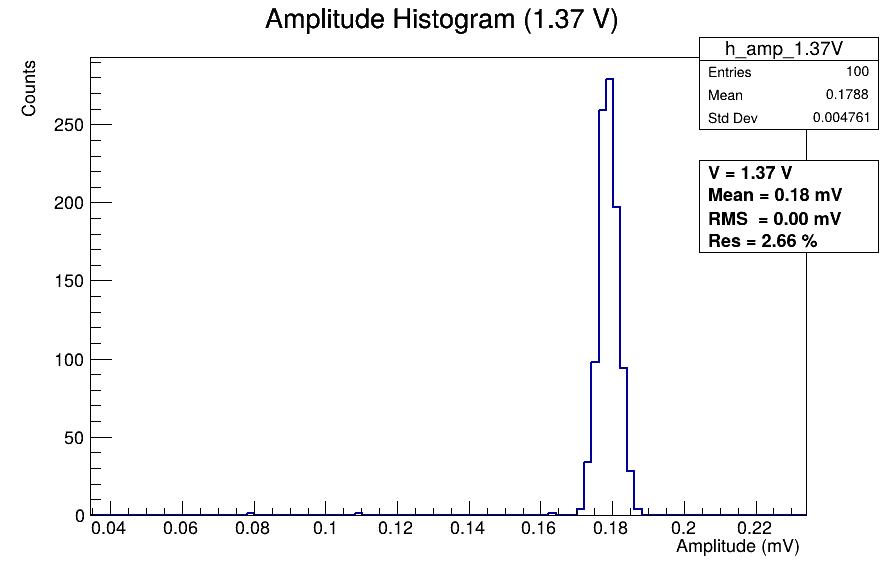
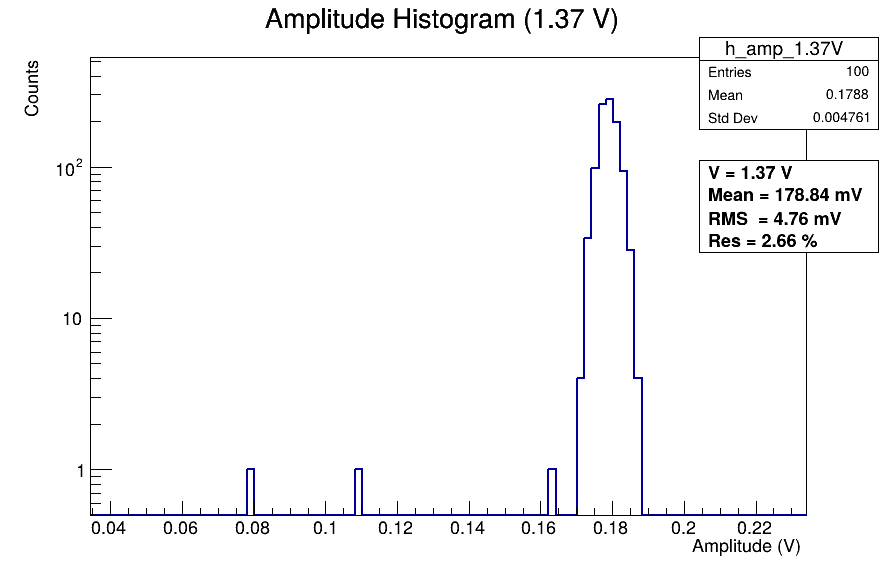
⚡ Improve the way the graphs are done (log y)

diff --git a/Test_LED_Analysis/plot_resolution_vs_voltage.py b/Test_LED_Analysis/plot_resolution_vs_voltage.py
@@ -7,15 +7,18 @@ import re
 # --------------------------------------------------
 # Paths
 # --------------------------------------------------
-BASE_DIR = "/mnt/d/Documents/PhD/EEEMCal_Analysis/Test_LED_Analysis/Res_area"
-DATA_DIR = os.path.join(BASE_DIR, "data")
-OUT_DIR  = os.path.join(BASE_DIR, "images", "areaHist")
+BASE_DIR = "/mnt/d/Documents/PhD/EEEMCal_Analysis/Test_LED_Analysis"
+
+AREA_DATA_DIR = os.path.join(BASE_DIR, "Res_area", "data")
+AMP_DATA_DIR  = os.path.join(BASE_DIR, "Res_amplitude", "data")
+
+OUT_DIR = os.path.join(BASE_DIR, "Res_area", "images", "areaHist")
 os.makedirs(OUT_DIR, exist_ok=True)
 
 ROOT.gROOT.SetBatch(True)
 
 # --------------------------------------------------
-# Helpers
+# Functions
 # --------------------------------------------------
 def read_binned_hist_csv(csv_path):
     """Reads CSV with columns: bin_center, counts (header allowed). Returns (x_centers, counts)."""
@@ -72,91 +75,156 @@ def parse_voltage(csv_file):
 # --------------------------------------------------
 # Scan files and compute resolution
 # --------------------------------------------------
-csv_files = sorted([f for f in os.listdir(DATA_DIR) if f.startswith("hist_area_") and f.endswith(".csv")])
-if not csv_files:
-    raise RuntimeError(f"No hist_area_*.csv files found in {DATA_DIR}")
+def compute_resolution_points(data_dir, file_prefix, x_unit_label):
+    """
+    Reads histograms in data_dir matching f"{file_prefix}_*.csv",
+    computes resolution = RMS/Mean (in %), and returns sorted arrays:
+    voltages, resolutions_pct, v_errors, res_errors_pct
+    """
+    
+    csv_files = sorted([f for f in os.listdir(data_dir) if f.startswith(file_prefix) and f.endswith(".csv")])
+    if not csv_files:
+        raise RuntimeError(f"No {file_prefix}*.csv files found in {data_dir}")
 
-voltages = []
-resolutions = []
-v_errors = []
-res_errors = []
+    voltages = []
+    resolutions = []
+    v_errors = []
+    res_errors = []
 
-for csv_file in csv_files:
-    v_val, v_label, v_tag = parse_voltage(csv_file)
-    if v_val is None:
-        print(f"⚠ Skipping (cannot parse voltage): {csv_file}")
-        continue
+    for csv_file in csv_files:
+        v_val, v_label, v_tag = parse_voltage(csv_file)
+        if v_val is None:
+            print(f"⚠ Skipping (cannot parse voltage): {csv_file}")
+            continue
 
-    csv_path = os.path.join(DATA_DIR, csv_file)
-    x, y = read_binned_hist_csv(csv_path)
-    if len(x) < 2:
-        print(f"⚠ Skipping (not enough data): {csv_file}")
-        continue
+        csv_path = os.path.join(data_dir, csv_file)
+        x, y = read_binned_hist_csv(csv_path)
+        if len(x) < 2:
+            print(f"⚠ Skipping (not enough data): {csv_file}")
+            continue
 
-    h = make_th1_from_centers_counts(
-        x, y,
-        hname=f"h_{v_tag}",
-        htitle=f"Area Histogram ({v_label});Area (Wb);Counts"
-    )
-    if not h:
-        print(f"⚠ Skipping (hist build failed): {csv_file}")
-        continue
+        h = make_th1_from_centers_counts(
+            x, y,
+            hname=f"h_{file_prefix}_{v_tag}",
+            htitle=f"{file_prefix} ({v_label});{x_unit_label};Counts"
+        )
+        if not h:
+            print(f"⚠ Skipping (hist build failed): {csv_file}")
+            continue
 
-    mean = h.GetMean()
-    rms  = h.GetRMS()
+        mean = h.GetMean()
+        rms  = h.GetRMS()
 
-    mean_err = h.GetMeanError()
-    rms_err  = h.GetRMSError()
+        mean_err = h.GetMeanError()
+        rms_err  = h.GetRMSError()
 
-    if mean == 0 or math.isnan(mean) or math.isnan(rms):
-        print(f"⚠ Skipping (bad mean/rms): {csv_file}  mean={mean} rms={rms}")
-        continue
+        if mean == 0 or math.isnan(mean) or math.isnan(rms):
+            print(f"⚠ Skipping (bad mean/rms): {csv_file}  mean={mean} rms={rms}")
+            continue
 
-    res = rms / mean
+        res = rms / mean
 
-    # Error propagation for res = rms/mean
-    # res_err/res = sqrt( (rms_err/rms)^2 + (mean_err/mean)^2 )
-    if rms > 0:
-        rel = math.sqrt((rms_err / rms) ** 2 + (mean_err / mean) ** 2) if mean != 0 else 0.0
-        res_err = abs(res) * rel
-    else:
-        res_err = 0.0
+        # Error propagation for res = rms/mean
+        # res_err/res = sqrt( (rms_err/rms)^2 + (mean_err/mean)^2 )
+        if rms > 0:
+            rel = math.sqrt((rms_err / rms) ** 2 + (mean_err / mean) ** 2) if mean != 0 else 0.0
+            res_err = abs(res) * rel
+        else:
+            res_err = 0.0
 
-    voltages.append(v_val)
-    resolutions.append(res * 100.0)      # in %
-    v_errors.append(0.0)                 # no voltage uncertainty provided
-    res_errors.append(res_err * 100.0)   # in %
+        voltages.append(v_val)
+        resolutions.append(res * 100.0)      # in %
+        v_errors.append(0.0)                 # no voltage uncertainty provided
+        res_errors.append(res_err * 100.0)   # in %
 
-    print(f"{csv_file:20s} -> V={v_val:.2f}  mean={mean:.3e} Wb  rms={rms:.3e} Wb  res={res*100:.2f}%")
+        print(f"{csv_file:26s} -> V={v_val:.2f}  mean={mean:.3e}  rms={rms:.3e}  res={res*100:.2f}%")
 
-    del h
+        del h
 
-# Sort by voltage (just in case)
-items = sorted(zip(voltages, resolutions, v_errors, res_errors), key=lambda t: t[0])
-voltages, resolutions, v_errors, res_errors = map(list, zip(*items))
+    # Sort by voltage (just in case)
+    items = sorted(zip(voltages, resolutions, v_errors, res_errors), key=lambda t: t[0])
+    if not items:
+        raise RuntimeError(f"No valid points gound for {file_prefix} in {data_dir}")
+    voltages, resolutions, v_errors, res_errors = map(list, zip(*items))
+    return voltages, resolutions, v_errors, res_errors
 
 # --------------------------------------------------
 # Make TGraphErrors: Resolution (%) vs Voltage (V)
 # --------------------------------------------------
-g = ROOT.TGraphErrors(len(voltages))
-g.SetName("g_res_vs_v")
-g.SetTitle("Resolution vs Voltage;Voltage (V);Resolution (%)")
+def make_graph(name, title, voltages, resolutions, v_errors, res_errors):
+    g = ROOT.TGraphErrors(len(voltages))
+    g.SetName(name)
+    g.SetTitle(title)
+    for i, (v, r, ev, er) in enumerate(zip(voltages, resolutions, v_errors, res_errors)):
+        g.SetPoint(i, v, r)
+        g.SetPointError(i, ev, er)
+    return g
 
-for i, (v, r, ev, er) in enumerate(zip(voltages, resolutions, v_errors, res_errors)):
-    g.SetPoint(i, v, r)
-    g.SetPointError(i, ev, er)
+# --------------------------------------------------
+# Compute curves
+# --------------------------------------------------
+
+vA, rA, evA, erA = compute_resolution_points(
+    data_dir=AREA_DATA_DIR,
+    file_prefix="hist_area_",
+    x_unit_label="Area (Wb)"
+)
+
+vP, rP, evP, erP = compute_resolution_points(
+    data_dir=AMP_DATA_DIR,
+    file_prefix="hist_amplitude_",
+    x_unit_label="Amplitude (mV)"
+)
+
+# --------------------------------------------------
+# Build graphs
+# --------------------------------------------------
+
+gA = make_graph(
+    name="g_res_area",
+    title="Resolution vs Voltage;Voltage (V);Resolution (%)",
+    voltages=vA, resolutions=rA, v_errors=evA, res_errors=erA
+)
+
+gP = make_graph(
+    name="g_res_amp",
+    title="Resolution vs Voltage;Voltage (V);Resolution (%)",
+    voltages=vP, resolutions=rP, v_errors=evP, res_errors=erP
+)
 
 # Style
+# Area (blue)
+gA.SetMarkerStyle(20)
+gA.SetMarkerSize(1.1)
+gA.SetLineWidth(2)
+gA.SetMarkerColor(ROOT.kBlue + 1)
+gA.SetLineColor(ROOT.kBlue + 1)
+
+# Amplitude (red)
+gP.SetMarkerStyle(21)
+gP.SetMarkerSize(1.1)
+gP.SetLineWidth(2)
+gP.SetMarkerColor(ROOT.kRed + 1)
+gP.SetLineColor(ROOT.kRed + 1)
+
 c = ROOT.TCanvas("c_res", "c_res", 900, 600)
-g.SetMarkerStyle(20)
-g.SetMarkerSize(1.1)
-g.SetLineWidth(2)
+gA.Draw("AP")
 
-g.Draw("AP")
+ymax = max(max(rA), max(rP))
+gA.GetYaxis().SetRangeUser(0.0, ymax * 1.1)
 
+gP.Draw("P SAME")
 # Optional: simple linear fit (comment out if you do not want it)
 # fit = ROOT.TF1("fit", "pol1", min(voltages), max(voltages))
 # g.Fit(fit, "Q")  # Q = quiet
+
+# Legend
+leg = ROOT.TLegend(0.25, 0.75, 0.50, 0.88)
+leg.SetBorderSize(1)
+leg.SetFillColor(0)
+leg.AddEntry(gA, "From Area Histogram (Wb)", "p")
+leg.AddEntry(gP, "From Amplitude Histogram (mV)", "p")
+leg.Draw()
 
 # Add a small info box
 pt = ROOT.TPaveText(0.76, 0.78, 0.98, 0.88, "NDC")
@@ -164,13 +232,13 @@ pt.SetFillColor(0)
 pt.SetBorderSize(1)
 pt.SetTextSize(0.035)
 pt.AddText(r"Resolution = \sigma / \mu")
-pt.AddText("Area unit: Wb")
 pt.Draw()
 
 # Save
-out_pdf = os.path.join(OUT_DIR, "resolution_vs_voltage.pdf")
-out_png = os.path.join(OUT_DIR, "resolution_vs_voltage.png")
-c.SaveAs(out_pdf)
+# out_pdf = os.path.join(OUT_DIR, "resolution_vs_voltage_area_and_amplitude.pdf")
+out_png = os.path.join(OUT_DIR, "resolution_vs_voltage_area_and_amplitude.png")
+# c.SaveAs(out_pdf)
 c.SaveAs(out_png)
 
-print(f"\n✅ Saved:\n  {out_pdf}\n  {out_png}")
+# print(f"\n✅ Saved:\n  {out_pdf}\n  {out_png}")
+print(f"\n✅ Saved:\n  {out_png}")

diff --git a/Test_LED_Analysis/Res_amplitude/plot_all_amplitude_hists.py b/Test_LED_Analysis/Res_amplitude/plot_all_amplitude_hists.py
@@ -85,13 +85,22 @@ for csv_file in csv_files:
     # Histogram (Amplitude)
     # --------------------------------------------------
     hname  = f"h_amp_{voltage_tag}"
-    htitle = f"Amplitude Histogram ({voltage_label});Amplitude (mV);Counts"
+    htitle = f"Amplitude Histogram ({voltage_label});Amplitude (V);Counts"
 
     h = ROOT.TH1D(hname, htitle, len(x), arr.data())
 
     for i, c in enumerate(y, start=1):
         h.SetBinContent(i, c)
         h.SetBinError(i, math.sqrt(c) if c >= 0 else 0.0)
+    
+    # peak_bin = h.GetMaximumBin()
+    # peak_amp = h.GetBinCenter(peak_bin)
+    
+    # low_edge  = 0.8 * peak_amp
+    # high_edge = 1.2 * peak_amp
+    
+    # bin_low  = h.FindBin(low_edge)
+    # bin_high = h.FindBin(high_edge)
 
     # --------------------------------------------------
     # Compute resolution = RMS/Mean
@@ -99,11 +108,33 @@ for csv_file in csv_files:
     mean = h.GetMean()
     rms  = h.GetRMS()
     resolution = (rms / mean) if mean != 0 else 0.0
+    
+    # sumw = 0.0
+    # sumwx = 0.0
+    # sumwx2 = 0.0
+    
+    # for b in range(bin_low, bin_high + 1):
+    #     w = h.GetBinContent(b)
+    #     xval = h.GetBinCenter(b)
+    #     sumw += w
+    #     sumwx += w * xval
+    #     sumwx2 += w * xval * xval
+
+    # if sumw > 0:
+    #     mean = sumwx / sumw
+    #     var = (sumwx2 / sumw) - mean * mean
+    #     rms = math.sqrt(var) if var > 0 else 0.0
+    # else:
+    #     mean = 0.0
+    #     rms = 0.0
+
+    # resolution = (rms / mean) if mean != 0 else 0.0
 
     # --------------------------------------------------
     # Draw and save
     # --------------------------------------------------
     c1 = ROOT.TCanvas("c1", "c1", 900, 600)
+    c1.SetLogy()
     h.SetLineWidth(2)
     h.Draw("HIST")
 
@@ -115,9 +146,10 @@ for csv_file in csv_files:
     pt.SetTextSize(0.035)
 
     pt.AddText(f"V = {voltage_label}")
-    pt.AddText(f"Mean = {mean:.2f} mV")
-    pt.AddText(f"RMS  = {rms:.2f} mV")
+    pt.AddText(f"Mean = {mean * 1e3:.2f} mV")
+    pt.AddText(f"RMS  = {rms * 1e3:.2f} mV")
     pt.AddText(f"Res = {resolution*100:.2f} %")
+    # pt.AddText(f"Window: [{low_edge:.1f}, {high_edge:.1f}] mV")
     pt.Draw()
 
     # out_pdf = os.path.join(OUT_DIR, f"hist_amplitude_{voltage_tag}.pdf")
